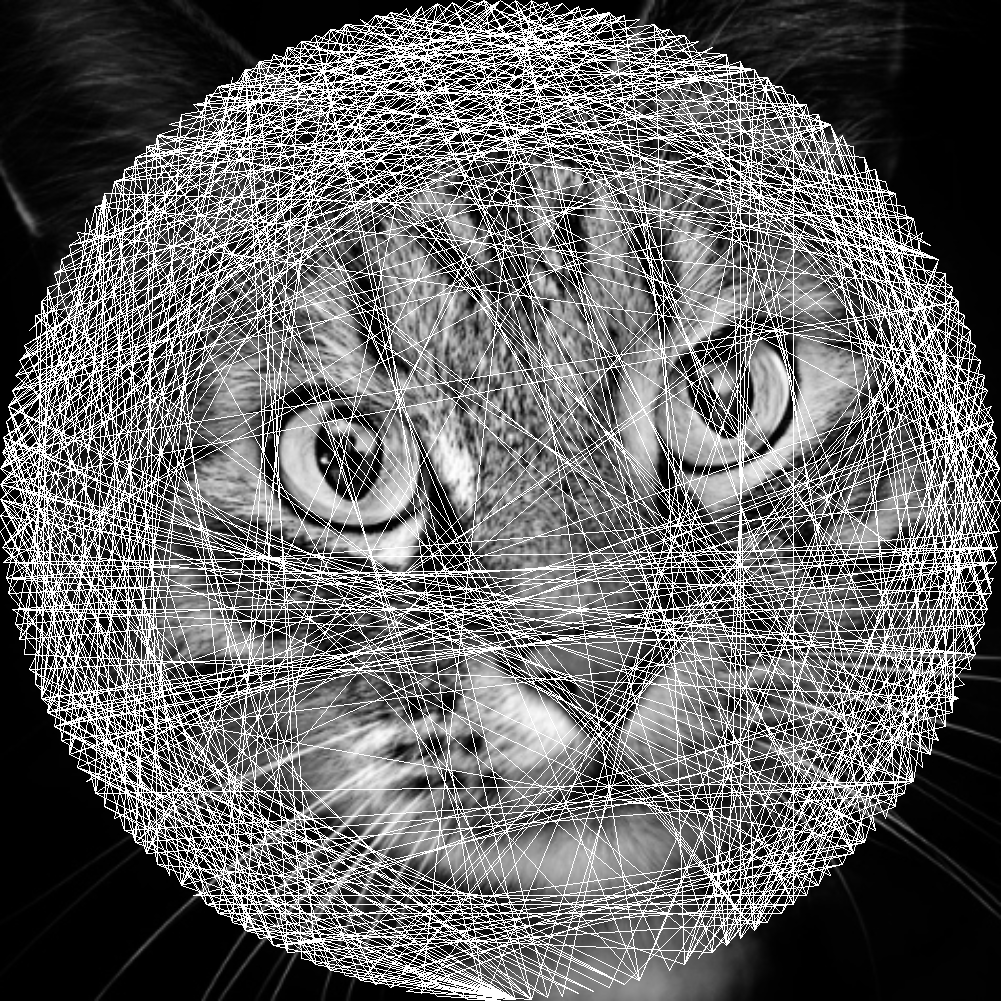
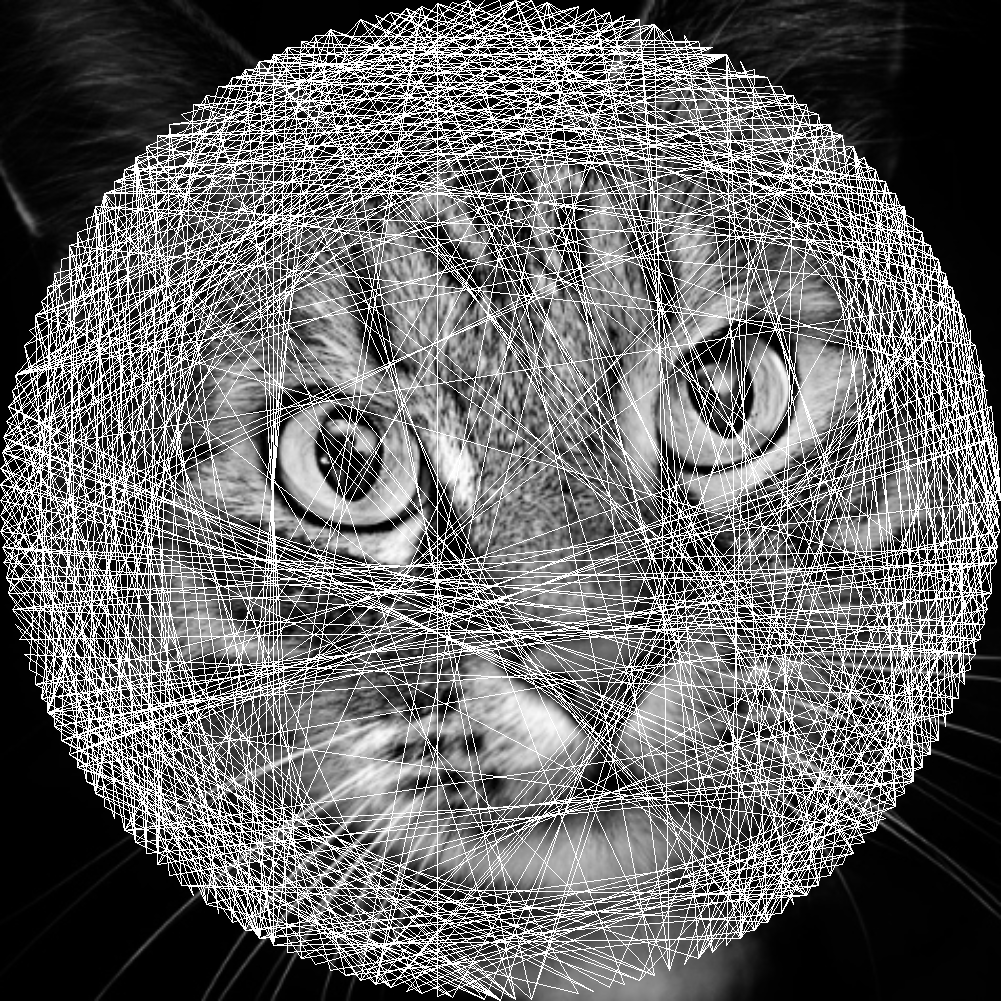
string_line.py now uses image masks

Changed region(s): [[0.0, 0.0, 1.0, 1.0]]

diff --git a/string_line.py b/string_line.py
@@ -4,66 +4,61 @@ import cv2
 import time
 
 
+# https://stackoverflow.com/questions/5186939/algorithm-for-drawing-a-4-connected-line
 def bresenham(x0, y0, x1, y1):
-    """Yield integer coordinates on the line from (x0, y0) to (x1, y1).
-    Input coordinates should be integers.
-    The result will contain both the start and the end point.
-    https://pypi.org/project/bresenham/
-    """
-    dx = x1 - x0
-    dy = y1 - y0
+    dx = abs(x1 - x0)    # distance to travel in X
+    dy = abs(y1 - y0)    # distance to travel in Y
 
-    xsign = 1 if dx > 0 else -1
-    ysign = 1 if dy > 0 else -1
-
-    dx = abs(dx)
-    dy = abs(dy)
-
-    if dx > dy:
-        xx, xy, yx, yy = xsign, 0, 0, ysign
+    if x0 < x1:
+        ix = 1           # x will increase at each step
     else:
-        dx, dy = dy, dx
-        xx, xy, yx, yy = 0, ysign, xsign, 0
+        ix = -1          # x will decrease at each step
 
-    D = 2*dy - dx
-    y = 0
+    if y0 < y1:
+        iy = 1           # y will increase at each step
+    else:
+        iy = -1          # y will decrease at each step
 
-    for x in range(dx + 1):
-        yield x0 + x*xx + y*yx, y0 + x*xy + y*yy
-        if D >= 0:
-            y += 1
-            D -= 2*dx
-        D += 2*dy
+    e = 0                # Current error 
 
+    for i in range(dx + dy):
+        yield (x0, y0)
+        e1 = e + dy
+        e2 = e - dx
+        if abs(e1) < abs(e2):
+            # Error will be smaller moving on X
+            x0 += ix
+            e = e1
+        else:
+            # Error will be smaller moving on Y
+            y0 += iy
+            e = e2
 
-def make_circle(center=(0, 0), r=150, n=200):
-    point = np.array([[int(center[0] + math.cos(np.pi*2*i/n) * r), int(center[1] + math.sin(np.pi*2*i/n) * r)] for i in range(n)])
-    return point
+def get_pin_pin_list(center=(0, 0), r=150, n=200):
+    points = np.array([[int(center[0] + math.cos(np.pi*2*i/n) * r), int(center[1] + math.sin(np.pi*2*i/n) * r)] for i in range(n)])
+    return points
 
-def check_tooclose(coords, line, adj):
-    if abs(line- adj) < 25:
+def pins_too_close(pin_list, pinA, pinB):
+    if abs(pinA - pinB) < 25:
         return True
 
-def update_image(bestBre, pinx, piny, kitty):
+def update_image(pinx, piny, kitty):
     mask = np.zeros(kitty.shape[:2], dtype = "uint8")
     cv2.line(mask, pinx, piny, 255, 1)
-    #cv2.line(imgResult, pinx, piny, 0, 1)
-    imgMasked = cv2.bitwise_or(kitty, mask)
-    kitty = np.add(imgMasked, mask)
-
-    cv2.namedWindow('image', cv2.WINDOW_NORMAL) 
-    cv2.resizeWindow('image', 1001, 1001)  
-    cv2.imshow('image', kitty)
-    cv2.waitKey(1) 
+    cv2.line(imgResult, pinx, piny, 0, 1)
+    kitty = cv2.bitwise_or(kitty, mask)
+ 
+    # cv2.namedWindow('image', cv2.WINDOW_NORMAL) 
+    # cv2.resizeWindow('image', 1001, 1001)  
+    # cv2.imshow('image', imgResult)
+    # cv2.waitKey(1) 
 
     return kitty
 
 
 start_time = time.time()
-imgRadius = 500 
-image = cv2.imread('kitty.PNG', cv2.IMREAD_GRAYSCALE)
-
-
+radius = 500 
+image = cv2.imread('kk.jpg', cv2.IMREAD_GRAYSCALE)
 
 
 height, width = image.shape[0:2]
@@ -71,66 +66,48 @@ minEdge= min(height, width)
 topEdge = int((height - minEdge)/2)
 leftEdge = int((width - minEdge)/2)
 imgCropped = image[topEdge:topEdge+minEdge, leftEdge:leftEdge+minEdge]
-kitty = cv2.resize(imgCropped, (2*imgRadius + 1, 2*imgRadius + 1)) 
+kitty = cv2.resize(imgCropped, (2*radius + 1, 2*radius + 1)) 
 cv2.imwrite('./resized.png', kitty)
-
-
-#nrows, ncols = kitty.shape
-# row, col = np.ogrid[:nrows, :ncols]
-# cnt_row, cnt_col = nrows / 2, ncols / 2
-# outer_disk_mask = ((row - cnt_row)**2 + (col - cnt_col)**2 >
-#                        (nrows / 2)**2)
-# kitty[outer_disk_mask] = 0
-# print len(kitty[outer_disk_mask])
-# print np.sum(kitty[outer_disk_mask])
-# cv2.imwrite('testing.png', kitty)
-# exit(0)
 
 
 height, width = kitty.shape[:2]
 imgResult = 255 * np.ones((height, width))
-nLines = 500
-nPins = 200
+num_lines = 1000
+num_pins = 200
 oldPin = 0
 
-x = int(width/2)
-y = int(height/2)
+center_x = int(width/2)
+center_y = int(height/2)
 
-coords = make_circle(center=(x,y),r=500)
-
-# if you want less local lines
-# for x in coords:
-#     y,z = x
-#     cv2.circle(kitty,(y,z), 55, (255,255,0), -1)
-
+pin_list = get_pin_pin_list(center=(center_x,center_y),r=radius, n=num_pins)
 
 line_list = []
 
-for line in range(nLines):
-    bestLine = 9999999999
-    oldCoord = coords[oldPin]
+for line in range(num_lines):
+    bestLine = float("inf")
+    oldCoord = pin_list[oldPin]
 
-    for index in range(1, nPins):
-        pin = (oldPin + index) % nPins
-        pixels = 0
-        coord = coords[pin]
-        if check_tooclose(coords, oldPin, pin):
+    for index in range(1, num_pins):
+        pin = (oldPin + index) % num_pins
+        coord = pin_list[pin]
+
+        if pins_too_close(pin_list, oldPin, pin):
             continue
-        bre = list(bresenham(oldCoord[0], oldCoord[1], coord[0], coord[1]))  
-        pixels = sum(kitty[x[0], x[1]] for x in bre)
-        lineSum = int(pixels / len(bre)) 
+
+        line_pin_list = list(bresenham(oldCoord[0], oldCoord[1], coord[0], coord[1]))  
+        pinX, pinY = zip(*line_pin_list)
+        pixel_sum = np.sum(kitty[pinY, pinX])
+        lineSum = int(pixel_sum / len(line_pin_list))
         if lineSum < bestLine:
             bestLine = lineSum
             bestPin = pin
-            bestBre = bre
 
-    line_list.append((oldPin, bestPin))    
-    kitty = update_image(bestBre, tuple(coords[oldPin]), tuple(coords[bestPin]), kitty)
-    
+    line_list.append((oldPin, bestPin))   
+    kitty = update_image(tuple(pin_list[oldPin]), tuple(pin_list[bestPin]), kitty)
     oldPin = bestPin
 
-cv2.imwrite('reg500.png', kitty)
-cv2.imwrite('reg500results.png', imgResult)
+cv2.imwrite('kkre.png', kitty)
+cv2.imwrite('kk_results.png', imgResult)
 # cv2.imshow('image', imgResult)
 # cv2.waitKey(0)
 # cv2.destroyAllWindows()

diff --git a/letsee.py b/letsee.py
@@ -1,0 +1,167 @@
+import sys
+import cv2
+import numpy as np
+
+# Parameters
+imgPath = "kitty.PNG"  
+imgRadius = 500     # Number of pixels that the image radius is resized to
+
+initPin = 0         # Initial pin to start threading from 
+nPins = 200         # Number of pins on the circular loom
+nLines = 500        # Maximal number of lines
+
+minLoop = 3         # Disallow loops of less than minLoop lines
+lineWidth = 3       # The number of pixels that represents the width of a thread
+lineWeight = 15     # The weight a single thread has in terms of "darkness"
+
+banner = """
+   __  __                        ________               
+  / /_/ /_  ________  ____ _____/ /_  __/___  ____  ___ 
+ / __/ __ \/ ___/ _ \/ __ `/ __  / / / / __ \/ __ \/ _ \\
+/ /_/ / / / /  /  __/ /_/ / /_/ / / / / /_/ / / / /  __/
+\__/_/ /_/_/   \___/\__,_/\__,_/ /_/  \____/_/ /_/\___/ 
+Build a thread based halftone representation of an image
+"""
+
+# Invert grayscale image
+def invertImage(image):
+    return (255-image)
+
+# Apply circular mask to image
+def maskImage(image, radius):
+    y, x = np.ogrid[-radius:radius + 1, -radius:radius + 1]
+    mask = x**2 + y**2 > radius**2
+    image[mask] = 0
+
+    return image
+
+# Compute coordinates of loom pins
+def pinCoords(radius, nPins=200, offset=0, x0=None, y0=None):
+    alpha = np.linspace(0 + offset, 2*np.pi + offset, nPins + 1)
+
+    if (x0 == None) or (y0 == None):
+        x0 = radius + 1
+        y0 = radius + 1
+
+    coords = []
+    for angle in alpha[0:-1]:
+        x = int(x0 + radius*np.cos(angle))
+        y = int(y0 + radius*np.sin(angle))
+
+        coords.append((x, y))
+    return coords
+
+# Compute a line mask
+def linePixels(pin0, pin1):
+    length = int(np.hypot(pin1[0] - pin0[0], pin1[1] - pin0[1]))
+
+    x = np.linspace(pin0[0], pin1[0], length)
+    y = np.linspace(pin0[1], pin1[1], length)
+
+    return (x.astype(np.int)-1, y.astype(np.int)-1)
+
+
+if __name__=="__main__":
+    print banner
+
+    # Load image
+    image = cv2.imread(imgPath)
+
+    print "[+] loaded " + imgPath + " for threading.."
+
+    # Crop image
+    height, width = image.shape[0:2]
+    minEdge= min(height, width)
+    topEdge = int((height - minEdge)/2)
+    leftEdge = int((width - minEdge)/2)
+    imgCropped = image[topEdge:topEdge+minEdge, leftEdge:leftEdge+minEdge]
+    cv2.imwrite('./cropped.png', imgCropped)
+
+    # Convert to grayscale
+    imgGray = cv2.cvtColor(imgCropped, cv2.COLOR_BGR2GRAY)
+    cv2.imwrite('./gray.png', imgGray)
+
+    # Resize image
+    imgSized = cv2.resize(imgGray, (2*imgRadius + 1, 2*imgRadius + 1)) 
+
+    # Invert image
+    imgInverted = invertImage(imgSized)
+    cv2.imwrite('./inverted.png', imgInverted)
+
+    # Mask image
+    imgMasked = maskImage(imgInverted, imgRadius)
+    cv2.imwrite('./masked.png', imgMasked)
+
+    print "[+] image preprocessed for threading.."
+
+    # Define pin coordinates
+    coords = pinCoords(imgRadius, nPins)
+    height, width = imgMasked.shape[0:2]
+
+    # image result is rendered to
+    imgResult = 255 * np.ones((height, width))
+
+    # Initialize variables
+    i = 0
+    lines = []
+    previousPins = []
+    oldPin = initPin
+    lineMask = np.zeros((height, width))
+
+    imgResult = 255 * np.ones((height, width))
+
+    # Loop over lines until stopping criteria is reached
+    for line in range(nLines):
+        i += 1
+        bestLine = 0
+        oldCoord = coords[oldPin]
+
+        # Loop over possible lines
+        for index in range(1, nPins):
+            pin = (oldPin + index) % nPins
+
+            coord = coords[pin]
+
+            xLine, yLine = linePixels(oldCoord, coord)
+            print xLine
+            print yLine
+            exit(0)
+            # Fitness function
+            lineSum = np.sum(imgMasked[yLine, xLine])
+
+            if (lineSum > bestLine) and not(pin in previousPins):
+                bestLine = lineSum
+                bestPin = pin
+
+        # Update previous pins
+        if len(previousPins) >= minLoop:
+            previousPins.pop(0)
+        previousPins.append(bestPin)
+
+        # Subtract new line from image
+        lineMask = lineMask * 0
+        cv2.line(lineMask, oldCoord, coords[bestPin], lineWeight, lineWidth)
+        imgMasked = np.subtract(imgMasked, lineMask)
+
+        # Save line to results
+        lines.append((oldPin, bestPin))
+
+        # plot results
+        xLine, yLine = linePixels(coords[bestPin], coord)
+        imgResult[yLine, xLine] = 0
+        cv2.imshow('image', imgResult)
+        cv2.waitKey(1)
+
+        # Break if no lines possible
+        if bestPin == oldPin:
+            break
+
+        # Prepare for next loop
+        oldPin = bestPin
+
+        # Print progress
+        sys.stdout.write("\b\b")
+        sys.stdout.write("\r")
+        sys.stdout.write("[+] Computing line " + str(line + 1) + " of " + str(nLines) + " total")
+        sys.stdout.flush()
+
